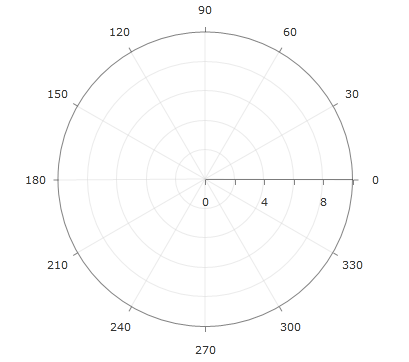
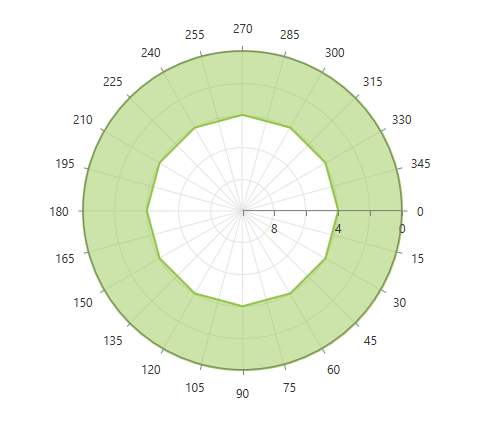
AI Search Gap: RadPolarChart Radial Axis Sweep Direction and Inversion
Decision
Recommend — Update the RadPolarChart axis documentation to cover SweepDirection on RadialAxis and IsInverse on PolarAxis, and correct the inaccurate claim regarding NumericRadialAxis.
Confidence: High
Gap: Incomplete content (contributing: incorrect content)

Why
Customer need: Know how to reverse radial numbers and change the sweep direction of NumericRadialAxis from counterclockwise to clockwise in RadPolarChart.
Current gap: The polar axis documentation omits SweepDirection and claims NumericRadialAxis defines no specific properties, leading AI Search to hallucinate that clockwise sweep direction is impossible.
Preferred approach: Update controls/radchartview/axes/polaraxis.md with SweepDirection and IsInverse, and cross-reference them in controls/radchartview/axes/inversed-axis.md. This is the smallest authoritative improvement directly targeting the article AI Search indexes.
Not selected: Creating a standalone new KB article on clockwise polar charts; rejected because the main documentation article contains an inaccurate claim that must be corrected at the source to prevent duplicate content.

diff --git a/controls/radchartview/axes/polaraxis.md b/controls/radchartview/axes/polaraxis.md
@@ -11,32 +11,68 @@ position: 4
 
 # Polar Axis
 
-
-
-## 
-
 In order to create a valid RadPolarChart object users must set its __PolarAxis__ and __RadialAxis__ properties to __PolarAxis__ and __NumericRadialAxis__ objects respectively.
-The PolarAxis class contains three properties and these are __MajorStep__, __Minimum__ and __Maximum__ which define the tick step, the minimum value and the maximum value of the axis.
-NumericRadialAxis does not define any properties specific to it.
 
-Below is an example of RadPolarChart that demonstrates the properties of its polar axis:
+## PolarAxis
+
+The PolarAxis class plots points along the radius of the chart. It provides the following properties:
+
+* __MajorStep__: Defines the major step between each axis tick.
+* __Minimum__: Defines the user-defined minimum value of the axis.
+* __Maximum__: Defines the user-defined maximum value of the axis.
+* __IsInverse__: A boolean property inherited from `LineAxis` that determines whether the axis range is inverted (moving inward from the outer edge).
+
+## RadialAxis and NumericRadialAxis
+
+The radial axis is the circular (angle) axis of the `RadPolarChart`. 
+
+`RadialAxis` provides the following properties:
+
+* __SweepDirection__: A property of type `System.Windows.Media.SweepDirection` that controls the direction in which the radial angles and numbers advance. By default, it is set to `Counterclockwise`. Setting it to `Clockwise` reverses the sweep direction so values advance clockwise around the chart.
+
+`NumericRadialAxis` extends `RadialAxis` to plot numerical angle values and defines:
+
+* __MajorStep__: Gets or sets the step of the ticks on the axis ellipse.
+* __MinorTicksPerMajor__: Gets or sets the number of minor ticks per major interval.
+* __MinorTickTemplate__: Gets or sets the data template for minor ticks.
+* __MinorTickStyle__: Gets or sets the style applied to minor ticks.
+
+## Example
+
+Below is an example of RadPolarChart that demonstrates configuring the polar axis and reversing the radial sweep direction using `SweepDirection`:
 
 ```XAML
-	<telerikChart:RadPolarChart>
-	    <telerikChart:RadPolarChart.Grid>
-	        <telerikChart:PolarChartGrid/>
-	    </telerikChart:RadPolarChart.Grid>
-	
-	    <telerikChart:RadPolarChart.PolarAxis>
-	        <telerikChart:PolarAxis LabelInterval="2"
-	                                MajorStep="2"
-	                                Maximum="10"/>
-	    </telerikChart:RadPolarChart.PolarAxis>
-	
-	    <telerikChart:RadPolarChart.RadialAxis>
-	        <telerikChart:NumericRadialAxis/>
-	    </telerikChart:RadPolarChart.RadialAxis>
-	</telerikChart:RadPolarChart>
+ <telerik:RadPolarChart Palette="Windows8" MinWidth="400" MinHeight="400"
+					   HorizontalAlignment="Stretch" VerticalAlignment="Stretch">
+     <telerik:RadPolarChart.Grid>
+         <telerik:PolarChartGrid />
+     </telerik:RadPolarChart.Grid>
+     <telerik:RadPolarChart.PolarAxis>
+         <telerik:PolarAxis LabelInterval="2" MajorStep="2" Maximum="10" IsInverse="True"  />
+     </telerik:RadPolarChart.PolarAxis>
+     <telerik:RadPolarChart.RadialAxis>
+         <telerik:NumericRadialAxis SweepDirection="Clockwise" MajorStep="15" />
+     </telerik:RadPolarChart.RadialAxis>
+     <telerik:RadPolarChart.Series>
+         <telerik:PolarAreaSeries>
+             <telerik:PolarAreaSeries.DataPoints>
+                 <telerik:PolarDataPoint Angle="30" Value="4"/>
+                 <telerik:PolarDataPoint Angle="60" Value="4"/>
+                 <telerik:PolarDataPoint Angle="90" Value="4"/>
+                 <telerik:PolarDataPoint Angle="120" Value="4"/>
+                 <telerik:PolarDataPoint Angle="150" Value="4"/>
+                 <telerik:PolarDataPoint Angle="180" Value="4"/>
+                 <telerik:PolarDataPoint Angle="210" Value="4"/>
+                 <telerik:PolarDataPoint Angle="240" Value="4"/>
+                 <telerik:PolarDataPoint Angle="270" Value="4"/>
+                 <telerik:PolarDataPoint Angle="300" Value="4"/>
+                 <telerik:PolarDataPoint Angle="330" Value="4"/>
+                 <telerik:PolarDataPoint Angle="360" Value="4"/>
+             </telerik:PolarAreaSeries.DataPoints>
+         </telerik:PolarAreaSeries>
+     </telerik:RadPolarChart.Series>
+ </telerik:RadPolarChart>
+
 ```
 
 ![Telerik UI for WPF RadChartView polar chart with a PolarAxis and radial axis](images/RadChartView-chart_axes_polaraxis.PNG)

diff --git a/controls/radchartview/axes/inversed-axis.md b/controls/radchartview/axes/inversed-axis.md
@@ -15,6 +15,7 @@ The chart axis range is moving from left to right when horizontal and from botto
 
 The axis range direction can be changed by setting the `IsInverse` property of the corresponding chart axis.
 
+In addition to Cartesian axes, `PolarAxis` in `RadPolarChart` also supports `IsInverse` to invert the radial distance (radius) range. For the circular angle axis (`NumericRadialAxis` or `CategoricalRadialAxis`), you can reverse the angle progression from counterclockwise to clockwise using the `SweepDirection` property (`SweepDirection="Clockwise"`).
 
 ```XAML
 	<telerik:RadCartesianChart>
